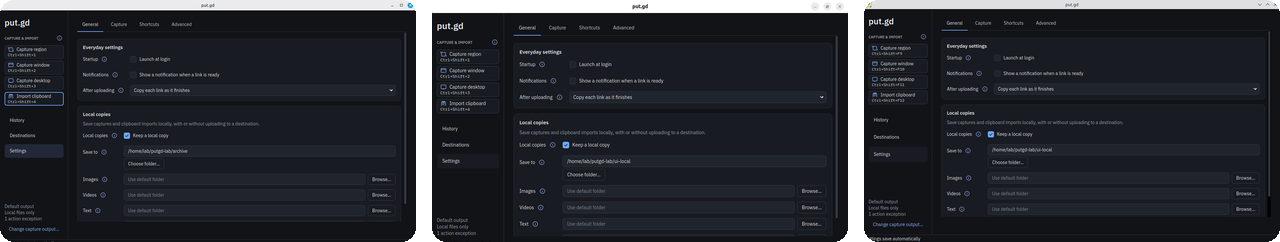
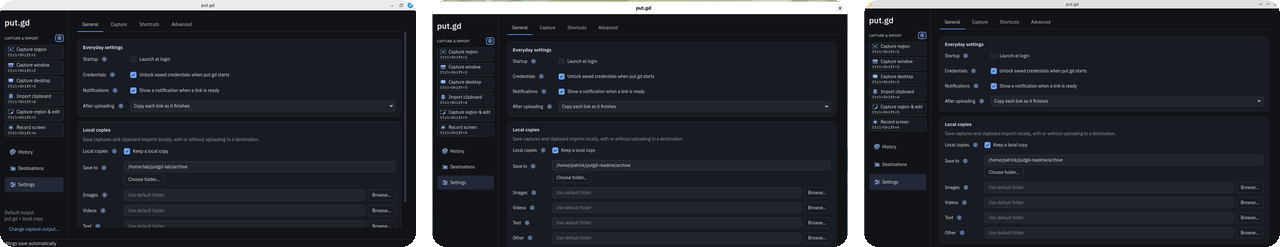
docs(readme): replace lab-evidence crops with fresh nightly screenshots
Every screenshot now comes from the current nightly build
(0.1.1-dev.343+gac92b2158535) on sanitised desktops with nothing but
put.gd open: the lab's Cinnamon guest on the Fedora builder (CI DEB), the
physical Fedora GNOME 50 Wayland desktop and the physical Debian Plasma
Wayland desktop (scratch builds of the same commit). New images: the tray
menu on all three desktops with the Record and Edit entries, the Settings
window strip, History in gallery view with captures, an edited upload and a
recording, the Edit & upload editor annotating NASA's public-domain Blue
Marble photo instead of the synthetic lab fixture, the recording review
window, Destinations, Capture and Shortcuts.

docs/readme/sources.md records the build, hosts, crop boxes, generation
and the photo credit. No raw desktop frames are kept in the repository.

diff --git a/docs/readme/sources.md b/docs/readme/sources.md
@@ -13,39 +13,40 @@ here is packaged, exported in the curated source archive or used by a test.
 
 ## Screenshots
 
-All screenshots are crops of retained acceptance evidence. The evidence files
-are the originals; do not edit them. Re-crop from the source when a window
-changes.
+All screenshots were taken on 2026-10-18 from the nightly build
+`0.1.1-dev.343+gac92b2158535` (nightly commit `ac92b21`), running on
+sanitised desktops with nothing but put.gd open:
 
-| File | Source evidence | Crop box (left, top, right, bottom) |
+| Desktop | Where | How the build got there |
 | --- | --- | --- |
-| `settings-cinnamon.png` | `docs/evidence/issue40-redesign/cinnamon-general.png` | 0, 0, 1280, 760 |
-| `destinations-cinnamon.png` | `docs/evidence/issue40-redesign/cinnamon-destination.png` | 0, 0, 1280, 760 |
-| `history-cinnamon.png` | `docs/evidence/issue40-redesign/cinnamon-history.png` | 0, 0, 1280, 760 |
-| `settings-gnome.png` | `docs/evidence/issue40-redesign/gnome-settings.png` | 67, 32, 1280, 800 |
-| `settings-kde.png` | `docs/evidence/issue40-redesign/kde-settings.png` | 0, 0, 1280, 745 |
-| `editor-gnome.png` | `docs/evidence/issue51-edit-and-upload/gnome-vm-agent-edits.png` | 220, 88, 1124, 742 |
-| `editor-kde.png` | `docs/evidence/issue51-edit-and-upload/kde-vm-editor-open.png` | 190, 48, 1090, 697 |
-| `tray-menu-cinnamon.png` | `docs/evidence/issue36-tray-label/cinnamon-menu.png` | 960, 500, 1280, 800 |
-| `desktops-strip.png` | the three `settings-*.png` crops above | each scaled to 416 px wide, 16 px gaps, 14 px rounded corners, top-aligned to the shortest panel |
+| Linux Mint Cinnamon / X11 | the lab's `cinnamon-x11` QEMU guest on the Fedora builder (1280×800) | CI package `putgd_0.1.1~dev.343+gac92b2158535_amd64.deb` from the nightly push run, installed with `tools/lab/lab.py install` |
+| Fedora 44 GNOME 50 / Wayland | the physical Fedora builder desktop (1920×1080) | `cmake --preset dev` scratch build of the same commit, run with the packaged host Shell extension |
+| Debian 13 KDE Plasma 6.3 / Wayland | the physical Debian builder desktop (1920×1080) | `cmake --preset dev` scratch build of the same commit, with the restricted KWin desktop entries for the scratch binaries |
 
-The crops were produced with Pillow:
+Each instance ran with isolated XDG directories and a lab configuration:
+local copies on, an S3 destination named `put.gd` with no credentials (the
+development template's non-secret settings), and shortcuts `Ctrl+Shift+1`
+to `Ctrl+Shift+6`. Nothing was uploaded anywhere; every History entry is a
+local-only capture, the edited photo, or a six-second local recording.
 
-```python
-from PIL import Image, ImageDraw
-Image.open(SOURCE).convert("RGB").crop(BOX).save(TARGET, optimize=True)
-# desktops-strip.png
-W, gap = 1280, 16; pw = (W - 2 * gap) // 3
-panels = [Image.open(f).convert("RGB") for f in ("settings-cinnamon.png", "settings-gnome.png", "settings-kde.png")]
-panels = [p.resize((pw, round(p.height * pw / p.width)), Image.LANCZOS) for p in panels]
-ph = min(p.height for p in panels)
-strip = Image.new("RGBA", (W, ph), (0, 0, 0, 0))
-for i, p in enumerate(panels):
-    mask = Image.new("L", (pw, ph), 0)
-    ImageDraw.Draw(mask).rounded_rectangle((0, 0, pw - 1, ph - 1), radius=14, fill=255)
-    strip.paste(p.crop((0, 0, pw, ph)), (i * (pw + gap), 0), mask)
-strip.save("desktops-strip.png", optimize=True)
-```
+| File | Content | Source frame |
+| --- | --- | --- |
+| `settings-cinnamon.png` | Settings › General | guest frame, window maximised, crop `0, 0, 1280, 760` |
+| `settings-gnome.png` | Settings › General | Fedora VNC frame, crop `298, 90, 1622, 1016` |
+| `settings-plasma.png` | Settings › General | Debian VNC frame, crop `298, 64, 1620, 972` |
+| `capture-plasma.png`, `shortcuts-plasma.png`, `destinations-plasma.png`, `history-plasma.png` | Settings › Capture, Settings › Shortcuts, Destinations, History (gallery, edited photo selected) | Debian VNC frames, same crop |
+| `review-plasma.png` | Review recording window after a six-second monitor recording through KWin's screencast stream | Debian VNC frame, crop `508, 150, 1412, 876` |
+| `editor-gnome.png` | Edit & upload with rectangle, highlight, redaction, arrow and text applied through `editor.apply` | Fedora VNC frame, crop `288, 54, 1632, 1052` |
+| `tray-cinnamon.png`, `tray-gnome.png`, `tray-plasma.png` | The tray context menu | guest frame crop `1055, 425, 1280, 800`; Fedora crop `1560, 33, 1860, 560`; Debian crop `1540, 680, 1920, 1080` |
+| `tray-trio.png` | the three tray crops side by side, 420 px tall, 16 px gaps, 12 px rounded corners | generated |
+| `desktops-strip.png` | the three Settings crops scaled to 416 px wide, 16 px gaps, 14 px rounded corners, top-aligned to the shortest | generated |
 
-The lab sessions behind these images are identified in their evidence
-directories; the README does not claim any acceptance result from them.
+The photo in the editor is NASA's *Blue Marble* image of Earth
+(NASA image ID `PIA18033`, `images-assets.nasa.gov/image/PIA18033/PIA18033~medium.jpg`),
+a public-domain NASA work. The annotations are the editor's own shapes.
+
+Frames were captured through the lab's VNC/QMP witnesses and cropped with
+Pillow (`Image.crop`, `optimize=True`); the composite images are built with the
+same library. The raw frames were not retained in the repository. The README
+claims no acceptance result from these images; acceptance evidence lives under
+`docs/evidence/` and is recorded in `docs/verification.md`.

diff --git a/README.md b/README.md
@@ -107,41 +107,49 @@ One resident process; windows, capture helpers, the recorder and the AWS SDK wor
 
 ## 📸 Screenshots
 
+Every image below is the current nightly build (`0.1.1-dev.343+gac92b2158535`) on a real desktop: Linux Mint Cinnamon, Fedora 44 GNOME 50 on Wayland and Debian 13 Plasma 6 on Wayland, all from the acceptance lab.
+
+<p align="center">
+  <img src="docs/readme/tray-trio.png" alt="The put.gd tray menu on Cinnamon, GNOME and KDE Plasma: capture region, region & edit, window, desktop, screen recording, edit image, upload clipboard" width="720">
+  <br>
+  <sub>The tray is the app. Cinnamon, GNOME and Plasma, same menu: capture, capture &amp; edit, record, edit an image, upload the clipboard.</sub>
+</p>
+
 <p align="center">
   <img src="docs/readme/desktops-strip.png" alt="The same put.gd window on Cinnamon, GNOME and KDE Plasma" width="100%">
-  <sub>One UI, three desktops: Linux Mint Cinnamon, Ubuntu GNOME 50, Kubuntu Plasma 6 — all screenshots from the acceptance lab</sub>
+  <sub>One window, three desktops. The rail shows every action with its live shortcut.</sub>
 </p>
 
 <table>
 <tr>
-<td width="50%"><img src="docs/readme/destinations-cinnamon.png" alt="Destinations: an S3 bucket with region, endpoint, link domain and access policy"></td>
-<td width="50%"><img src="docs/readme/history-cinnamon.png" alt="History in gallery view with a selected capture and its stored link"></td>
+<td width="50%"><img src="docs/readme/history-plasma.png" alt="History in gallery view with captures, an edited image and a screen recording"></td>
+<td width="50%"><img src="docs/readme/editor-gnome.png" alt="Edit & upload: a NASA photo of Earth with a rectangle, highlight, redaction, arrow and text"></td>
 </tr>
 <tr>
-<td align="center"><sub><b>Destinations</b> — S3 basics up front, endpoints, addressing, storage class and timeouts under Advanced. Test connection uploads a synthetic object, verifies the public link, then cleans up.</sub></td>
-<td align="center"><sub><b>History</b> — offline ledger with search, filters, thumbnails and the exact receipt. Copy, open, re-edit, or prepare a guarded remote deletion.</sub></td>
+<td align="center"><sub><b>History</b> — offline ledger in gallery or list view: region and desktop captures, an edited upload, a screen recording. Copy the link again, re-edit, or prepare a guarded remote deletion.</sub></td>
+<td align="center"><sub><b>Edit &amp; upload</b> — rectangle, highlight, redaction, arrow and text on a photo. Redact removes the pixels from the upload; nothing is sent until Upload.</sub></td>
 </tr>
 <tr>
-<td width="50%"><img src="docs/readme/editor-gnome.png" alt="Edit & upload editor with redaction, arrow, rectangle and text annotations"></td>
-<td width="50%"><img src="docs/readme/settings-cinnamon.png" alt="Settings: General tab with startup, notifications, clipboard behaviour and local copies"></td>
+<td width="50%"><img src="docs/readme/review-plasma.png" alt="Review recording window with playback, trim, blur and solid masks, and output format"></td>
+<td width="50%"><img src="docs/readme/destinations-plasma.png" alt="Destinations: an S3 bucket with region, endpoint, link domain and access policy"></td>
 </tr>
 <tr>
-<td align="center"><sub><b>Edit &amp; upload</b> — redact, blur, crop, annotate. Redact removes the pixels from the uploaded image; nothing is sent until Upload.</sub></td>
-<td align="center"><sub><b>Settings</b> — autosave, per-action destinations and sharing, local copy folders, naming templates, shortcuts with live binding status.</sub></td>
+<td align="center"><sub><b>Screen recording</b> — Stop always opens this private review: scrub, trim, add timed blur or solid masks, pick the output, then Upload or Discard.</sub></td>
+<td align="center"><sub><b>Destinations</b> — S3 basics up front, endpoints, addressing, storage class and timeouts under Advanced. Test connection uploads a synthetic object, checks the public link, then cleans up.</sub></td>
 </tr>
 </table>
 
 <details>
-<summary><b>More</b> — tray menu and the editor on KDE</summary>
+<summary><b>More</b> — capture output, shortcuts</summary>
 <br>
 <table>
 <tr>
-<td width="25%" valign="top"><img src="docs/readme/tray-menu-cinnamon.png" alt="Tray menu on Cinnamon"></td>
-<td width="75%" valign="top"><img src="docs/readme/editor-kde.png" alt="Edit & upload on Kubuntu Plasma"></td>
+<td width="50%"><img src="docs/readme/capture-plasma.png" alt="Settings › Capture: default destination, sharing, per-action exceptions and file name templates"></td>
+<td width="50%"><img src="docs/readme/shortcuts-plasma.png" alt="Settings › Shortcuts: six global shortcuts with their live binding status"></td>
 </tr>
 <tr>
-<td align="center"><sub>The tray is the app: capture, record, settings, history, activity. It turns blue while preparing, green while uploading, amber while encoding, and flashes red on a real error.</sub></td>
-<td align="center"><sub>The editor is a separate on-demand process with the same theme. Blur is cosmetic and says so; Redact is the one that actually removes data.</sub></td>
+<td align="center"><sub><b>Capture</b> — one default output, per-action exceptions, and naming templates for captures, clipboard images and text.</sub></td>
+<td align="center"><sub><b>Shortcuts</b> — record a chord per action; each row reports whether the desktop actually granted it.</sub></td>
 </tr>
 </table>
 </details>
